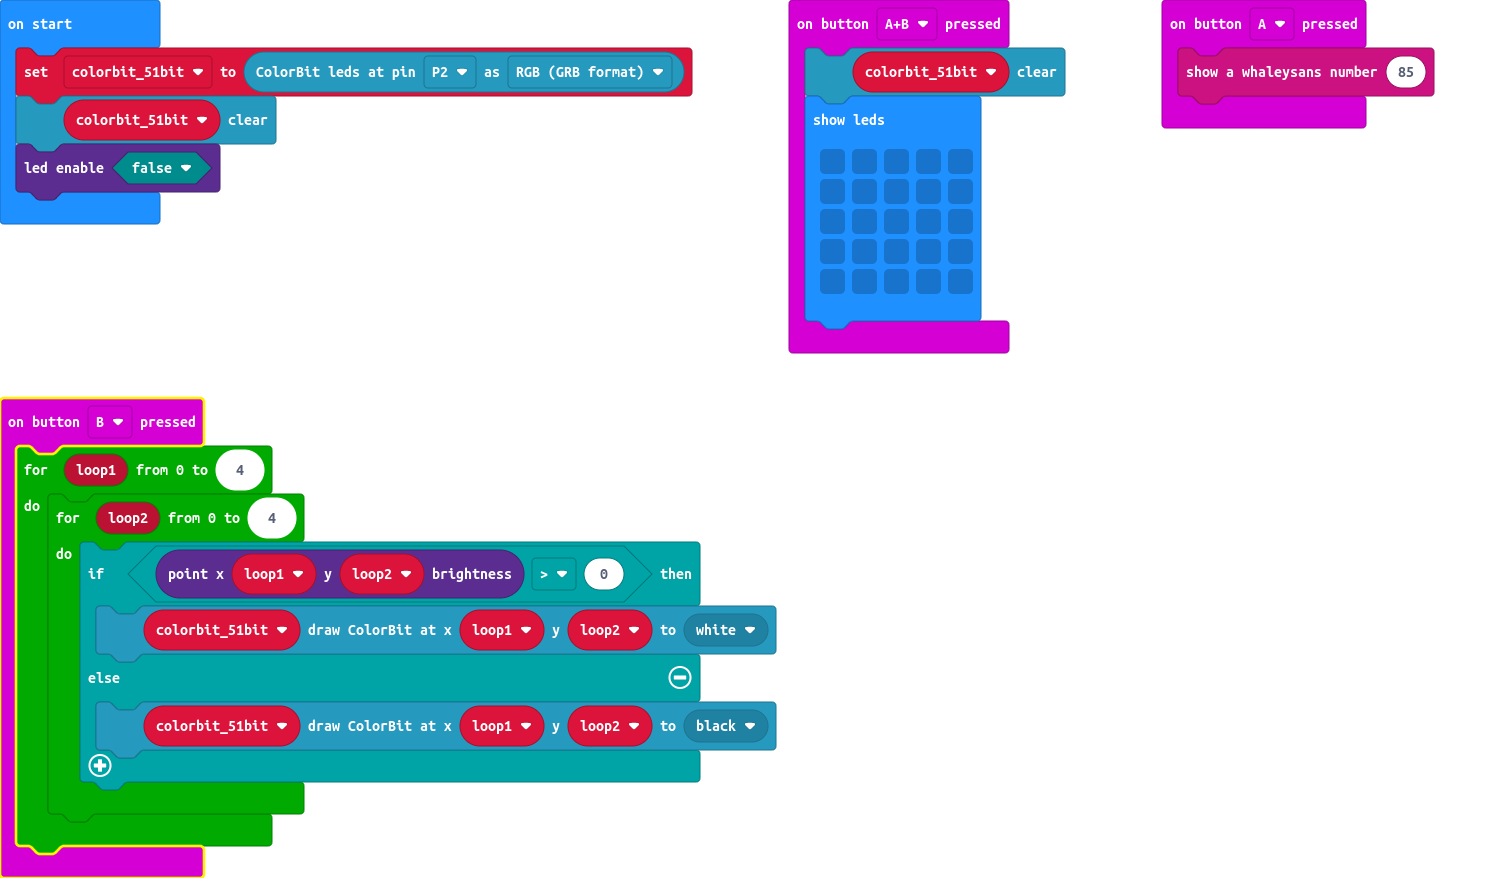
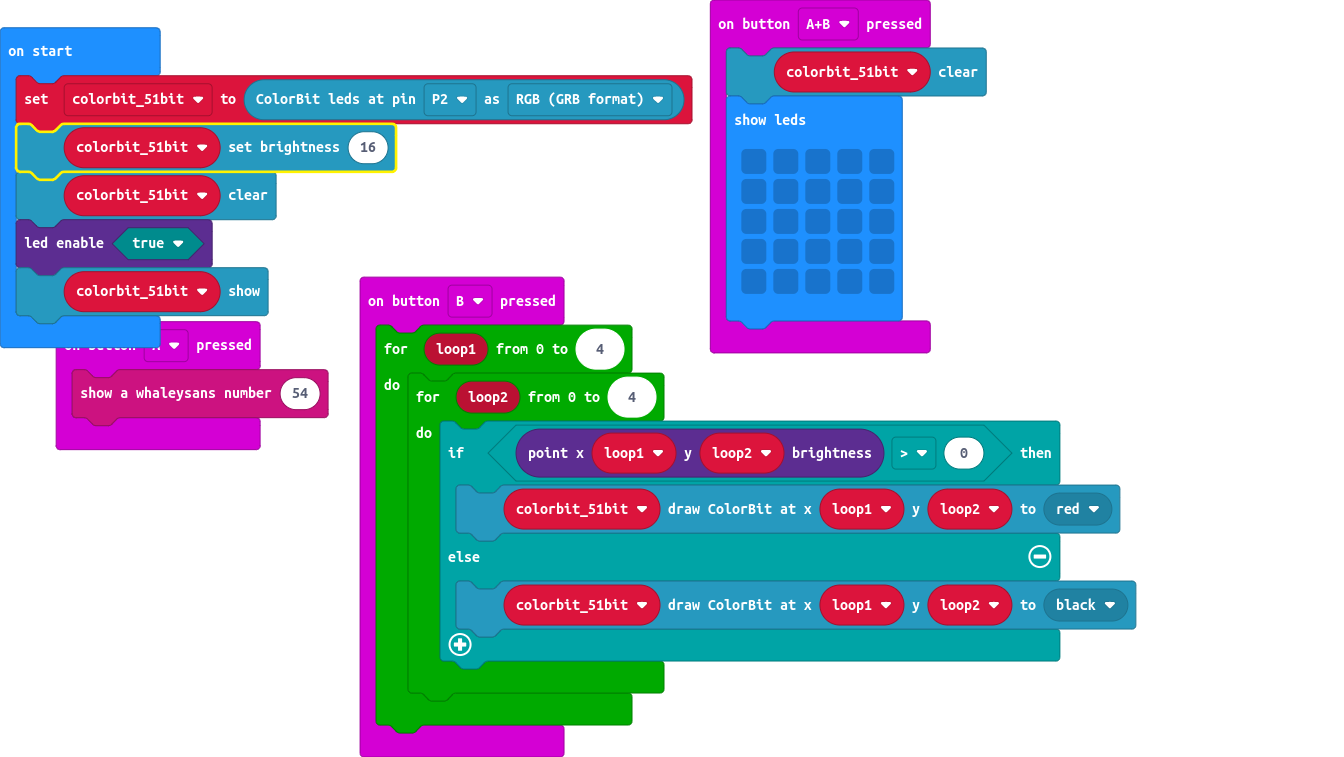
Update pxt.json, main.blocks, main.ts

diff --git a/main.ts b/main.ts
@@ -1,5 +1,5 @@
 input.onButtonPressed(Button.A, function () {
-    whaleysans.showNumber(85)
+    whaleysans.showNumber(54)
 })
 input.onButtonPressed(Button.AB, function () {
     colorbit_51bit.clear()
@@ -15,7 +15,7 @@ input.onButtonPressed(Button.B, function () {
     for (let loop1 = 0; loop1 <= 4; loop1++) {
         for (let loop2 = 0; loop2 <= 4; loop2++) {
             if (led.pointBrightness(loop1, loop2) > 0) {
-                colorbit_51bit.drawColorBit(loop1, loop2, colorbit.colors(BitColors.White))
+                colorbit_51bit.drawColorBit(loop1, loop2, colorbit.colors(BitColors.Red))
             } else {
                 colorbit_51bit.drawColorBit(loop1, loop2, colorbit.colors(BitColors.Black))
             }
@@ -24,5 +24,7 @@ input.onButtonPressed(Button.B, function () {
 })
 let colorbit_51bit: colorbit.Strip = null
 colorbit_51bit = colorbit.initColorBit(DigitalPin.P2, BitColorMode.RGB)
+colorbit_51bit.setBrightness(16)
 colorbit_51bit.clear()
-led.enable(false)
+led.enable(true)
+colorbit_51bit.show()
